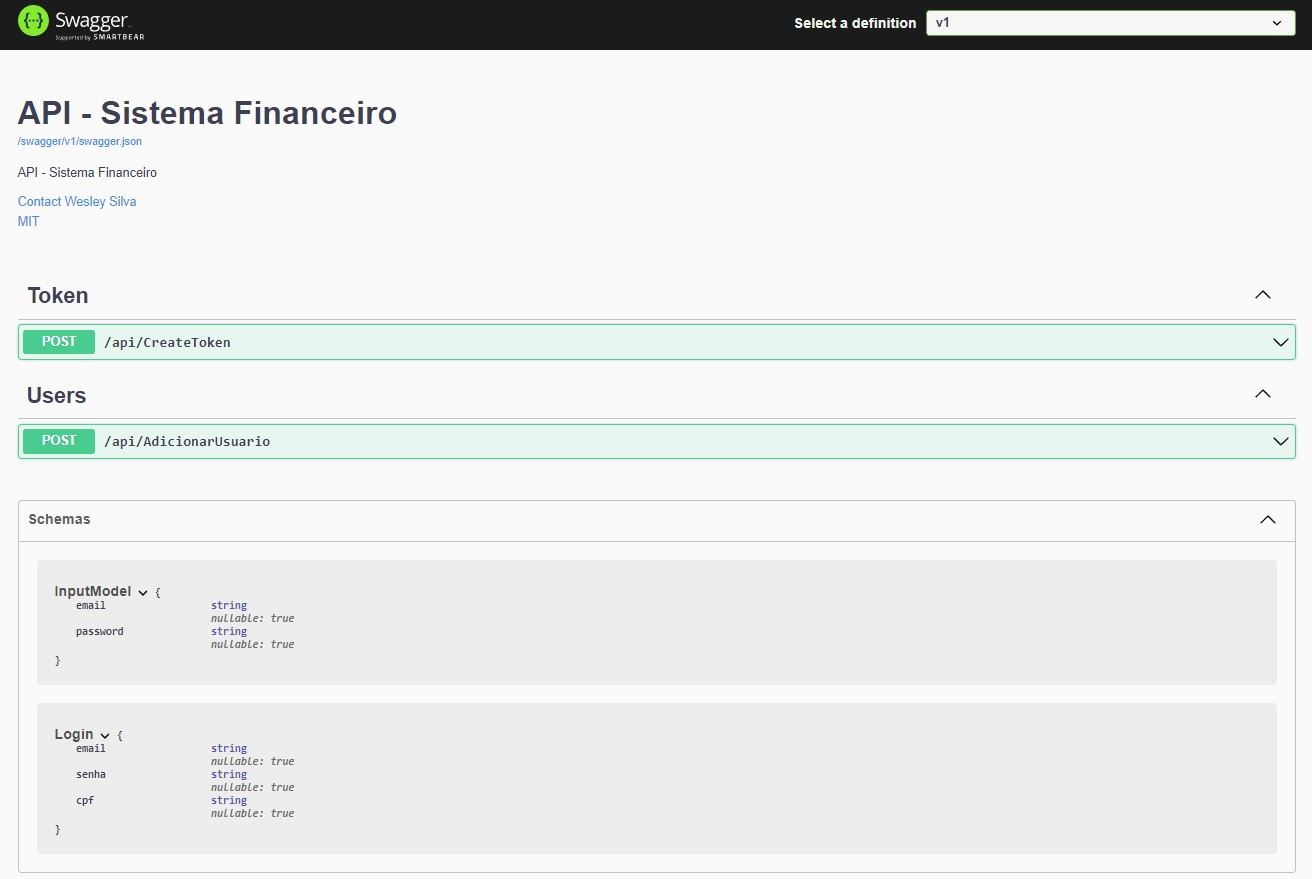
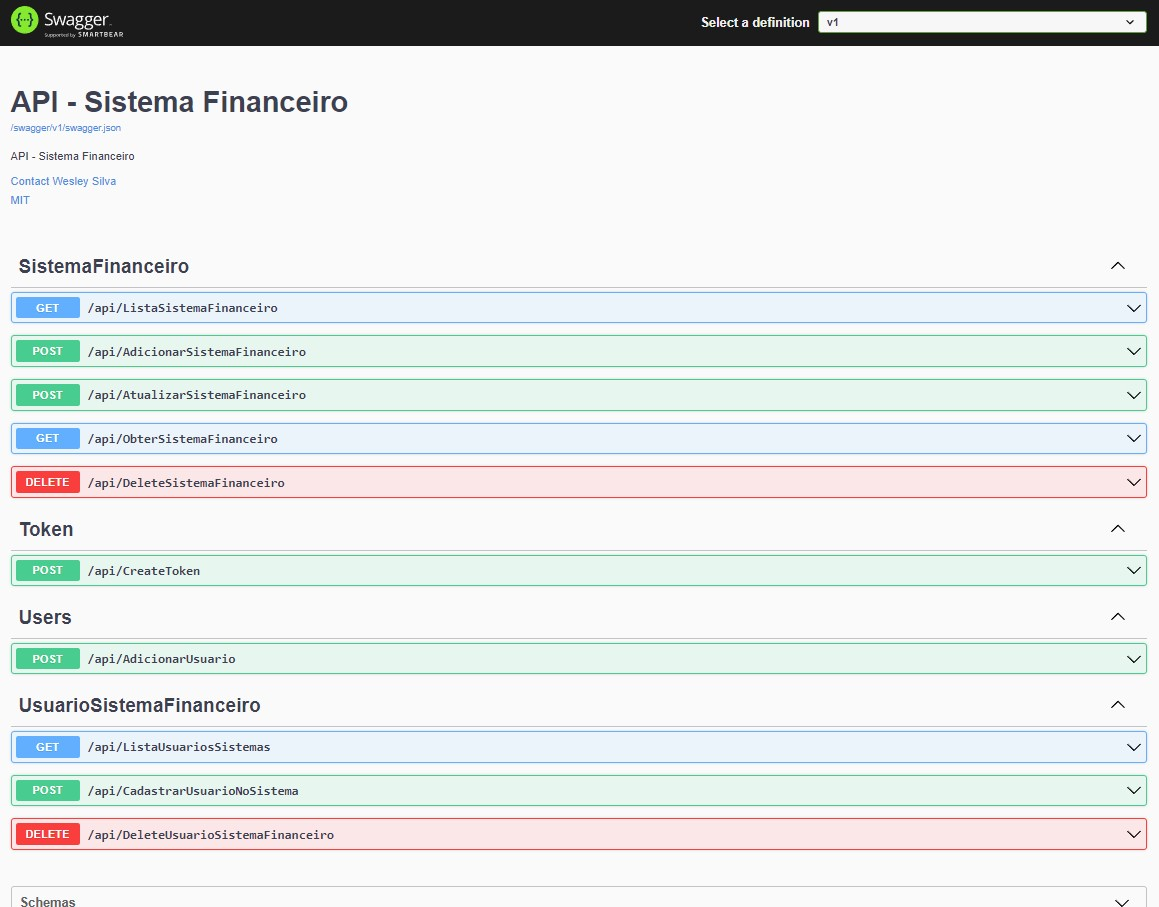
Cria apis gerenciamento do Sistema

diff --git a/WebApi/Controllers/UsuarioSistemaFinanceiroController.cs b/WebApi/Controllers/UsuarioSistemaFinanceiroController.cs
@@ -1,0 +1,74 @@
+using Domain.Interfaces.InterfaceServices;
+using Domain.Interfaces.ISistemaFinanaceiro;
+using Domain.Interfaces.IUsuarioSistemaFinanceiro;
+using Entities.Entidades;
+using Microsoft.AspNetCore.Authorization;
+using Microsoft.AspNetCore.Mvc;
+
+namespace WebApi.Controllers
+{
+    [Route("api/[controller]")]
+    [ApiController]
+    [Authorize]
+    public class UsuarioSistemaFinanceiroController : ControllerBase
+    {
+        private readonly InterfaceUsuarioSistemaFinanceiro _interfaceUsuarioSistemaFinanceiro;
+        private readonly IUsuarioSistemaFinanceiroServico _iUsuarioSistemaFinanceiroServico;
+
+        public UsuarioSistemaFinanceiroController(InterfaceUsuarioSistemaFinanceiro interfaceUsuarioSistemaFinanceiro, 
+            IUsuarioSistemaFinanceiroServico usuarioSistemaFinanceiroServico)
+        {
+            _interfaceUsuarioSistemaFinanceiro = interfaceUsuarioSistemaFinanceiro;
+            _iUsuarioSistemaFinanceiroServico = usuarioSistemaFinanceiroServico;
+        }
+
+        [HttpGet("/api/ListaUsuariosSistemas")]
+        [Produces("application/json")]
+        public async Task<object> ListaUsuariosSistemas(int idSistema)
+        {
+            return await _interfaceUsuarioSistemaFinanceiro.ListaUsuariosSistema(idSistema);
+        }
+
+        [HttpPost("/api/CadastrarUsuarioNoSistema")]
+        [Produces("application/json")]
+        public async Task<object> CadastrarUsuarioNoSistema(int idSistema, string emailUsuario)
+        {
+            try
+            {
+                await _iUsuarioSistemaFinanceiroServico.CadastrarUsuarioNoSistema(
+                    new UsuarioSistemaFinanceiro
+                    {
+                        IdSistema = idSistema,
+                        EmailUsuario = emailUsuario,
+                        Administrador= false,
+                        SistemaAtual = true
+                    });
+
+            }
+            catch (Exception)
+            {
+                return Task.FromResult(false);
+            }
+
+            return Task.FromResult(true);
+        }
+
+        [HttpDelete("/api/DeleteUsuarioSistemaFinanceiro")]
+        [Produces("application/json")]
+        public async Task<object> DeleteUsuarioSistemaFinanceiro(int id)
+        {
+            try
+            {
+                var usuarioSistemaFinanceiro = await _interfaceUsuarioSistemaFinanceiro.GetEntityById(id);
+
+                await _interfaceUsuarioSistemaFinanceiro.Delete(usuarioSistemaFinanceiro);
+            }
+            catch (Exception)
+            {
+                return Task.FromResult(false);
+            }
+
+            return Task.FromResult(true);
+        }
+    }
+}

diff --git a/WebApi/Controllers/SistemaFinanceiroController.cs b/WebApi/Controllers/SistemaFinanceiroController.cs
@@ -1,0 +1,74 @@
+using Domain.Interfaces.InterfaceServices;
+using Domain.Interfaces.ISistemaFinanaceiro;
+using Entities.Entidades;
+using Microsoft.AspNetCore.Authorization;
+using Microsoft.AspNetCore.Mvc;
+
+namespace WebApi.Controllers
+{
+    [Route("api/[controller]")]
+    [ApiController]
+    [Authorize]
+    public class SistemaFinanceiroController : ControllerBase
+    {
+        private readonly InterfaceSistemaFinanceiro _interfaceSistemaFinanceiro;
+        private readonly ISistemaFinanceiroServico _iSistemaFinanceiroServico;
+
+        public SistemaFinanceiroController(InterfaceSistemaFinanceiro interfaceSistemaFinanceiro, 
+            ISistemaFinanceiroServico iSistemaFinanceiroServico)
+        {
+            _interfaceSistemaFinanceiro = interfaceSistemaFinanceiro;
+            _iSistemaFinanceiroServico = iSistemaFinanceiroServico;
+        }
+
+        [HttpGet("/api/ListaSistemaFinanceiro")]
+        [Produces("application/json")]
+        public async Task<object> ListaSistemaFinanceiro(string emailUsuario)
+        {
+            return await _interfaceSistemaFinanceiro.ListaSistemaUsuario(emailUsuario);
+        }
+
+        [HttpPost("/api/AdicionarSistemaFinanceiro")]
+        [Produces("application/json")]
+        public async Task<object> AdicionarSistemaFinanceiro(SistemaFinanceiro sistemaFinanceiro)
+        {
+            await _iSistemaFinanceiroServico.AdicionarSistemaFinanceiro(sistemaFinanceiro);
+
+            return Task.FromResult(sistemaFinanceiro);
+        }
+
+        [HttpPost("/api/AtualizarSistemaFinanceiro")]
+        [Produces("application/json")]
+        public async Task<object> AtualizarSistemaFinanceiro(SistemaFinanceiro sistemaFinanceiro)
+        {
+            await _iSistemaFinanceiroServico.AdicionarSistemaFinanceiro(sistemaFinanceiro);
+
+            return Task.FromResult(sistemaFinanceiro);
+        }
+
+        [HttpGet("/api/ObterSistemaFinanceiro")]
+        [Produces("application/json")]
+        public async Task<object> ObterSistemaFinanceiro(int id)
+        {
+            return await _interfaceSistemaFinanceiro.GetEntityById(id);
+        }
+
+        [HttpDelete("/api/DeleteSistemaFinanceiro")]
+        [Produces("application/json")]
+        public async Task<object> DeleteSistemaFinanceiro(int id)
+        {
+            try
+            {
+                var sistemaFinanceiro = await _interfaceSistemaFinanceiro.GetEntityById(id);
+
+                await _interfaceSistemaFinanceiro.Delete(sistemaFinanceiro);
+            }
+            catch (Exception ex)
+            {
+                return false;
+            }
+
+            return true;
+        }
+    }
+}
